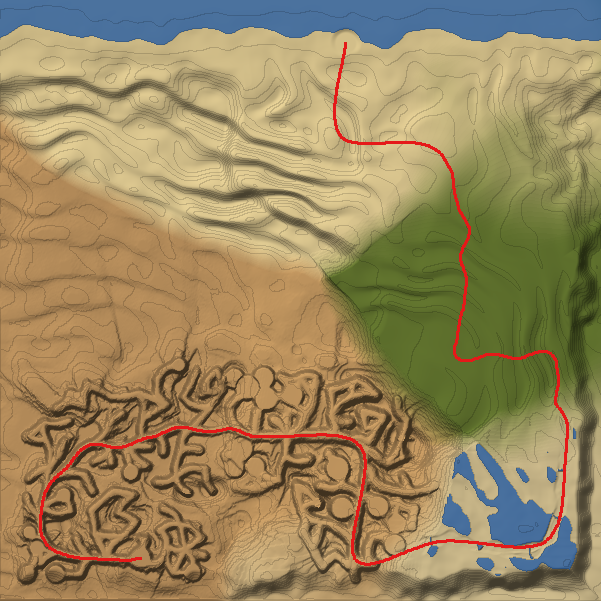
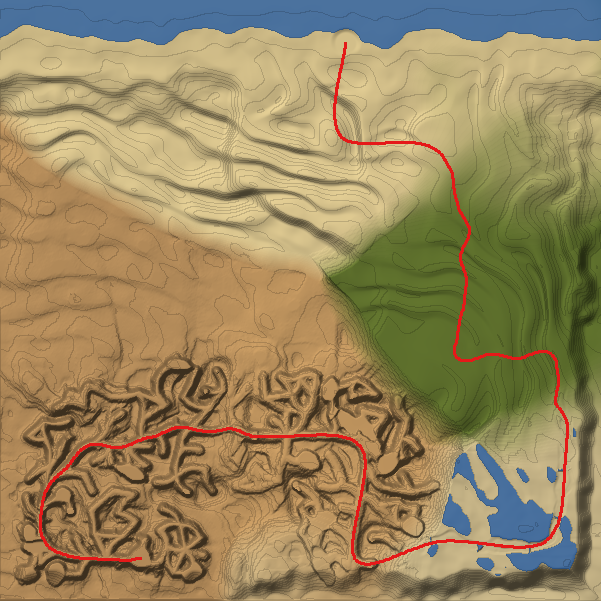
feat(tools): túneles pasantes y cuevas, plazas orgánicas, cimas variadas y terreno más suave
- Túneles de dos tipos: pasantes (unen dos pasillos abiertos) y cuevas
  sin salida. 8 en total (3+1 en los acantilados, 4+1 en el cañón), todos
  con roca encima; test que exige al menos 4 pasantes y que se llegue
  andando desde la salida a todos (ninguno inaccesible).
- Plazas llanas con contorno natural (elipse girada con el borde deformado)
  y repartidas por todo el laberinto, no círculos concentrados en el cañón.
- Cimas de los acantilados a alturas distintas (8-17 m sobre el nivel,
  repisas a medias) y borde superior redondeado: sin aristas de 90 grados.
- Terreno más arenoso: repisas más tendidas, más derrubio al pie de las
  paredes, ruido 3D de las paredes a la mitad y 12 pasadas de Taubin.
- Dunas de la zona verde y de la playa más empinadas (hasta ~10 m).

diff --git a/Scripts/terrain_vol/density.py b/Scripts/terrain_vol/density.py
@@ -38,8 +38,10 @@ TUNNEL_HEIGHT_M = 5.0
 TUNNEL_MIN_COVER_M = TUNNEL_HEIGHT_M + 0.8   # roca minima sobre el suelo del tunel (tramo central)
 TUNNEL_LENGTH_M = (26.0, 36.0)         # (solo lo usa el plan antiguo, que se conserva por la semilla)
 TUNNEL_EDGE_M = (18.0, 45.0)           # longitud de las aristas del laberinto que se hacen tunel
-TUNNELS_PER_ZONE = {"cliffs": 2, "canyon": 3}
-TUNNEL_CANDIDATES = {"cliffs": (4, 8), "canyon": (4, 8)}   # (en la cadena, fuera) antes de validar
+# Por zona: (tuneles pasantes, cuevas sin salida). Pasante: une dos pasillos abiertos (sus dos
+# nodos tienen otras aristas). Cueva: uno de sus nodos es una hoja (no lleva a ningun sitio).
+TUNNELS_PER_ZONE = {"cliffs": (3, 1), "canyon": (4, 1)}
+TUNNEL_CANDIDATES = {"cliffs": (10, 4), "canyon": (10, 4)}  # (pasantes, cuevas) antes de validar
 TUNNEL_HILL_M = 7.0                      # loma de roca que se levanta sobre cada tunel
 
 CANYON_REACH_M = 70.0                  # el laberinto del canon se extiende a los lados como el de la salida
@@ -63,7 +65,7 @@ def strata(h, step: float):
     """Repisas de canto vivo (arenisca)."""
     q = h / step
     f = q - np.floor(q)
-    return (np.floor(q) + smooth(0.7, 1.0, f)) * step
+    return (np.floor(q) + smooth(0.55, 1.0, f)) * step
 
 
 @dataclass
@@ -136,14 +138,16 @@ class MapModel:
         self.maze_tunnels = self._pick_maze_tunnels(extra)
         self._close_tunnel_edges()
         # Plazas llanas grandes en el canon (puzles).
-        self.clearings["canyon_maze"] = self._pick_clearings(extra, self.nets["canyon_maze"], every=5,
-                                                             radius=(8.0, 12.0))
+        self.clearings["canyon_maze"] = self._pick_clearings(extra, self.nets["canyon_maze"], every=7,
+                                                             radius=(6.5, 10.0))
         self._build_tunnel_samples()
         self.marsh_warp_2 = (Fbm2D(extra, 40.0, 2), Fbm2D(extra, 40.0, 2))
         self.n_hummock = Fbm2D(extra, 6.0, 2)
         self.n_steep = Fbm2D(extra, 30.0, 2)
         self.n_beach_amp = Fbm2D(extra, 110.0, 2)
         self.n_cliff_height = Fbm2D(extra, 55.0, 3)
+        self.n_clearing = Fbm2D(extra, 9.0, 2)
+        self.n_top = Fbm2D(extra, 38.0, 3)
 
         # Campos 2D del mapa entero, con una muestra de margen alrededor.
         count = int(round((MAP_MAX_M - MAP_MIN_M) / STEP_XY_M)) + 1
@@ -187,6 +191,7 @@ class MapModel:
         for net_name, zone in (("cliffs", "cliffs"), ("canyon_maze", "canyon")):
             net = self.nets[net_name]
             chain = {tuple(sorted((net.chain[k], net.chain[k + 1]))) for k in range(len(net.chain) - 1)}
+            degree = net.degree()
             good = []
             for name, edge, dip in self.maze_tunnels:
                 if name != net_name:
@@ -202,9 +207,10 @@ class MapModel:
                 base = net.edge_floor(edge, t) + dip * np.sin(np.pi * t)
                 cover = self.grid.height[i, j] - base
                 if float(cover.min()) >= TUNNEL_MIN_COVER_M:
-                    good.append((tuple(sorted(net.edges[edge])) in chain, (name, edge, dip)))
-            good.sort(key=lambda g: not g[0])
-            kept += [g[1] for g in good[:TUNNELS_PER_ZONE[zone]]]
+                    a, b = net.edges[edge]
+                    good.append((min(degree[a], degree[b]) >= 2, (name, edge, dip)))
+            n_through, n_caves = TUNNELS_PER_ZONE[zone]
+            kept += [g[1] for g in good if g[0]][:n_through] + [g[1] for g in good if not g[0]][:n_caves]
         return kept
 
     def _pick_maze_tunnels(self, rng: np.random.Generator) -> list[tuple[str, int, float]]:
@@ -221,8 +227,11 @@ class MapModel:
             others = [k for k in ok if tuple(sorted(net.edges[k])) not in chain_edges]
             rng.shuffle(on_chain)
             rng.shuffle(others)
-            n_chain, n_other = TUNNEL_CANDIDATES[zone]
-            chosen = on_chain[:n_chain] + others[:n_other]
+            degree = net.degree()
+            through = [k for k in on_chain + others if min(degree[net.edges[k][0]], degree[net.edges[k][1]]) >= 2]
+            caves = [k for k in on_chain + others if min(degree[net.edges[k][0]], degree[net.edges[k][1]]) == 1]
+            n_through, n_caves = TUNNEL_CANDIDATES[zone]
+            chosen = through[:n_through] + caves[:n_caves]
             used_nodes: set[int] = set()
             for k in chosen:
                 a, b = net.edges[k]
@@ -312,9 +321,20 @@ class MapModel:
         return d[:, 0].reshape(X.shape), level.reshape(X.shape)
 
     def _clearing(self, zone: str, X, Y):
+        """Plazas llanas de contorno natural: elipse girada (aspecto y giro sacados de su
+        posicion) con el borde deformado por ruido, en vez de un circulo."""
         weight, level = np.zeros_like(X), np.zeros_like(X)
+        wobble = getattr(self, "n_clearing", None)
         for cx, cy, r, lv in self.clearings.get(zone, np.zeros((0, 4))):
-            m = 1.0 - smooth(r, r + 2.0, np.hypot(X - cx, Y - cy))
+            angle = (cx * 12.9898 + cy * 78.233) % math.pi
+            aspect = 1.0 + 0.8 * (((cx * 3.1 + cy * 7.7) % 1.0))
+            dx, dy = X - cx, Y - cy
+            u = (dx * math.cos(angle) + dy * math.sin(angle)) / aspect
+            v = (-dx * math.sin(angle) + dy * math.cos(angle)) * math.sqrt(aspect)
+            dist = np.hypot(u, v)
+            if wobble is not None:
+                dist = dist + 0.35 * r * wobble(X, Y)
+            m = 1.0 - smooth(r, r + 3.0, dist)
             level = np.where(m > weight, lv, level)
             weight = np.maximum(weight, m)
         return weight, level
@@ -331,9 +351,9 @@ class MapModel:
         """Dunas de playa que se pasean: crestas redondeadas, caras de avalancha tendidas
         (~25 grados como mucho) y relieve que cambia por zonas (de casi llano a 7 m)."""
         mix = smooth(0.35, 0.65, self.n_dune_mix.unit(X, Y))
-        field = self._dune_set(X, Y, self.dune_angle, 34.0, 0.62) * (1 - mix) \
-            + self._dune_set(X, Y, self.dune_angle_2, 46.0, 0.62) * mix
-        amp = scale * (1.2 + 5.8 * smooth(0.25, 0.85, self.n_beach_amp.unit(X, Y)))
+        field = self._dune_set(X, Y, self.dune_angle, 34.0, 0.7) * (1 - mix) \
+            + self._dune_set(X, Y, self.dune_angle_2, 46.0, 0.7) * mix
+        amp = scale * (1.8 + 8.2 * smooth(0.25, 0.85, self.n_beach_amp.unit(X, Y)))
         return amp * field
 
     def _dunes(self, X, Y, amp, wave: float):
@@ -364,7 +384,7 @@ class MapModel:
             crack = ndimage.gaussian_filter(crack, 1.0)     # sin rendijas de una celda (aletas)
         top = top - crack * np.maximum(top - f - 0.8, 0.0) * 0.9
         # Talud de derrubios: rampa de arena al pie de la pared, irregular.
-        talus = (top - f) * 0.28 * (0.4 + 0.6 * self.n_talus.unit(X, Y)) * smooth(-2.6, 0.4, face)
+        talus = (top - f) * 0.36 * (0.4 + 0.6 * self.n_talus.unit(X, Y)) * smooth(-3.2, 0.4, face)
         floor = f + talus
         height = top * (1.0 - corridor) + floor * corridor
         band = 1.0 - smooth(0.0, 3.5, np.abs(face - 0.3))
@@ -392,9 +412,12 @@ class MapModel:
         start_w = 1.0 - smooth(9.0, 13.0, np.hypot(X - start[0], Y - start[1]))
         hw = 3.2 + 1.3 * width + 0.9 * self.n_buttress(X, Y)
         f = (level * (1.0 - clear_w) + clear_level * clear_w) * (1.0 - start_w) + 0.3 * small
-        top = strata(level_soft * (1.0 - start_w) + 9.5 + 4.0 * self.n_mid.unit(X, Y) + 1.2 * small, 3.5) + tunnel_hill
+        # Cimas a alturas distintas (no una meseta): 8-17 m sobre el nivel y repisas a medias.
+        raw_top = level_soft * (1.0 - start_w) + 8.0 + 9.0 * smooth(0.15, 0.9, self.n_top.unit(X, Y)) \
+            + 2.0 * self.n_mid.unit(X, Y) + 1.2 * small
+        top = 0.45 * raw_top + 0.55 * strata(raw_top, 3.5) + tunnel_hill
         d_eff = d * (1.0 - np.maximum(clear_w, start_w))
-        heights["cliffs"], bands["cliffs"], axes["cliffs"] = self._rock_walls(X, Y, d_eff, hw, f, top)
+        heights["cliffs"], bands["cliffs"], axes["cliffs"] = self._rock_walls(X, Y, d_eff, hw, f, top, rim=0.15)
         # Lejos de los pasillos el suelo de referencia es el nivel suavizado: el muro exterior
         # que sube desde el no marca la bisectriz entre dos caminos de niveles distintos.
         near_corridor = 1.0 - smooth(hw + 1.0, hw + 9.0, d_eff)
@@ -414,7 +437,7 @@ class MapModel:
         # Pendiente que cambia por tramos: de pared casi vertical (1 m) a ladera de 55 grados.
         face_w = 1.0 + 3.2 * smooth(0.3, 0.8, self.n_steep.unit(X, Y))
         heights["canyon"], bands["canyon"], axes["canyon"] = self._rock_walls(
-            X, Y, d_eff, hw, f, top, face_width=face_w, rim=0.1)
+            X, Y, d_eff, hw, f, top, face_width=face_w, rim=0.18)
         near_corridor = 1.0 - smooth(hw + 1.0, hw + 9.0, d_eff)
         floors["canyon"] = f * near_corridor + level_soft * (1.0 - near_corridor)
 
@@ -449,7 +472,7 @@ class MapModel:
         # Algas: lomas y hondonadas, red densa de sendas; el laberinto lo hace la espesura.
         d, _ = self._net("algae", X, Y)
         hw = 1.8 + 0.8 * width
-        f = 0.8 + 2.0 * self.n_big.unit(X, Y) + 0.8 * self._beach_dunes(X, Y)
+        f = 0.8 + 2.0 * self.n_big.unit(X, Y) + 1.0 * self._beach_dunes(X, Y)
         heights["algae"], floors["algae"] = f, f
         bands["algae"] = np.zeros_like(X)
         axes["algae"] = 1.0 - smooth(0.5 * hw, hw, d)
@@ -541,7 +564,7 @@ class MapModel:
         if np.any(band > 0.0):
             # Paredes con voladizos suaves; nada por debajo del suelo del camino.
             above_floor = smooth(0.8, 2.5, Z3 - f.floor[..., None])
-            D = D + 1.1 * band * above_floor * self.n_wall3d(X3, Y3, Z3)
+            D = D + 0.6 * band * above_floor * self.n_wall3d(X3, Y3, Z3)
         if np.any(f.tunnel > 0.0):
             carve = self._tunnel_carve(f, Z3, X, Y)
             # Paredes y techo rugosos, no una boveda perfecta.

diff --git a/Scripts/tests/test_terrain_volume.py b/Scripts/tests/test_terrain_volume.py
@@ -175,6 +175,24 @@ def test_sin_picos_de_una_celda_en_la_roca(model):
     assert int((spike > 4.0).sum()) == 0
 
 
+def test_hay_tuneles_pasantes_y_todos_se_alcanzan(model, chunks, standable):
+    """Tuneles que unen dos pasillos (no solo cuevas) y ninguno inaccesible: se llega andando
+    a su tramo central desde la salida."""
+    through = 0
+    for net_name, edge, _ in model.maze_tunnels:
+        net = model.nets[net_name]
+        a, b = net.edges[edge]
+        through += int(min(net.degree()[a], net.degree()[b]) >= 2)
+    assert through >= 4
+    start_ij = world_index(model.route.points[0])
+    reached = walk(standable, (*start_ij, ground_level(standable, *start_ij)))
+    for net_name, edge, _ in model.maze_tunnels:
+        curve = model.nets[net_name].curves[edge]
+        i, j = world_index(curve[len(curve) // 2])
+        near = reached[i - 2:i + 3, j - 2:j + 3, :]
+        assert near.any(), f"tunel inaccesible: {net_name} arista {edge}"
+
+
 def test_los_tuneles_bajan_o_suben_por_dentro_y_son_parte_del_laberinto(model):
     assert all(1.0 <= abs(dip) <= 3.5 for _, _, dip in model.maze_tunnels)
     assert any(dip < 0 for _, _, dip in model.maze_tunnels), "ninguno baja por debajo"

diff --git a/Scripts/terrain_vol/mesh.py b/Scripts/terrain_vol/mesh.py
@@ -39,7 +39,7 @@ ZONE_PALETTE = {"cliffs": "sand", "canyon": "sand", "marsh": "damp", "algae": "a
 PLANT_ALGAE = False          # 2026-09-25: sin modelos de alga; la zona se lee por el color de la arena
 
 FOLIAGE_SPACING_M = 2.0
-SMOOTH_ITERATIONS = 6                   # Taubin (encoge poco): quita el escalonado del marching cubes
+SMOOTH_ITERATIONS = 12                  # Taubin (encoge poco): quita el escalonado del marching cubes
 FOLIAGE_SHAPES = {"stalk": 0, "frond": 1, "bush": 2}      # orden de TNTerrainBiome::EFoliageShape
 FOLIAGE_COLORS = ((0.10, 0.14, 0.03), (0.27, 0.29, 0.07))
 
